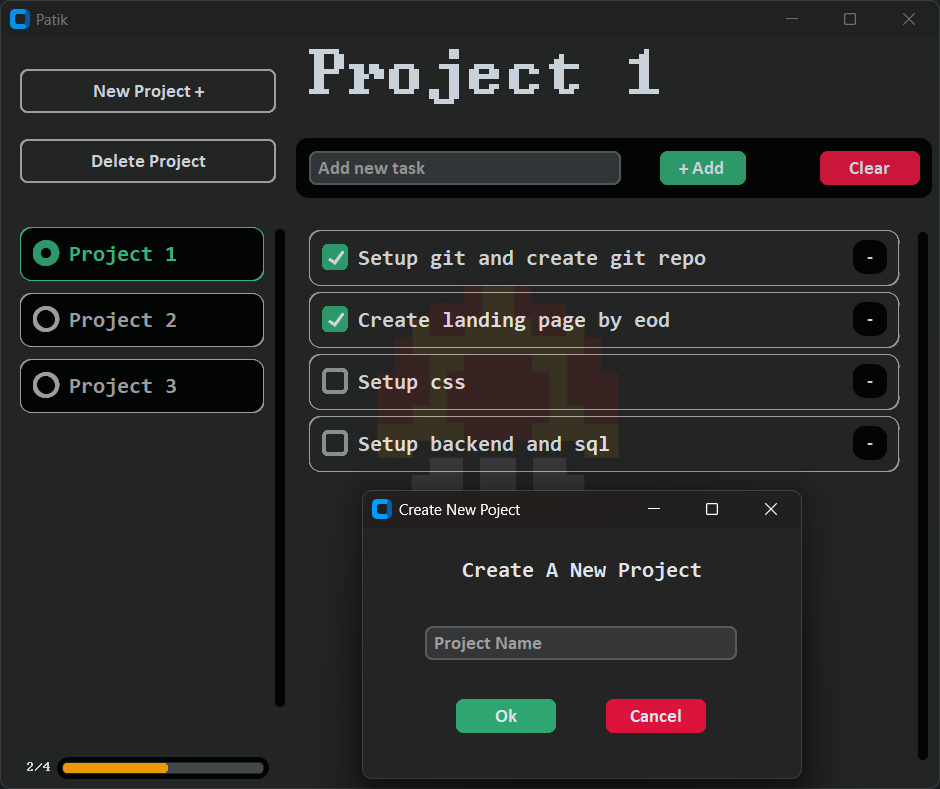
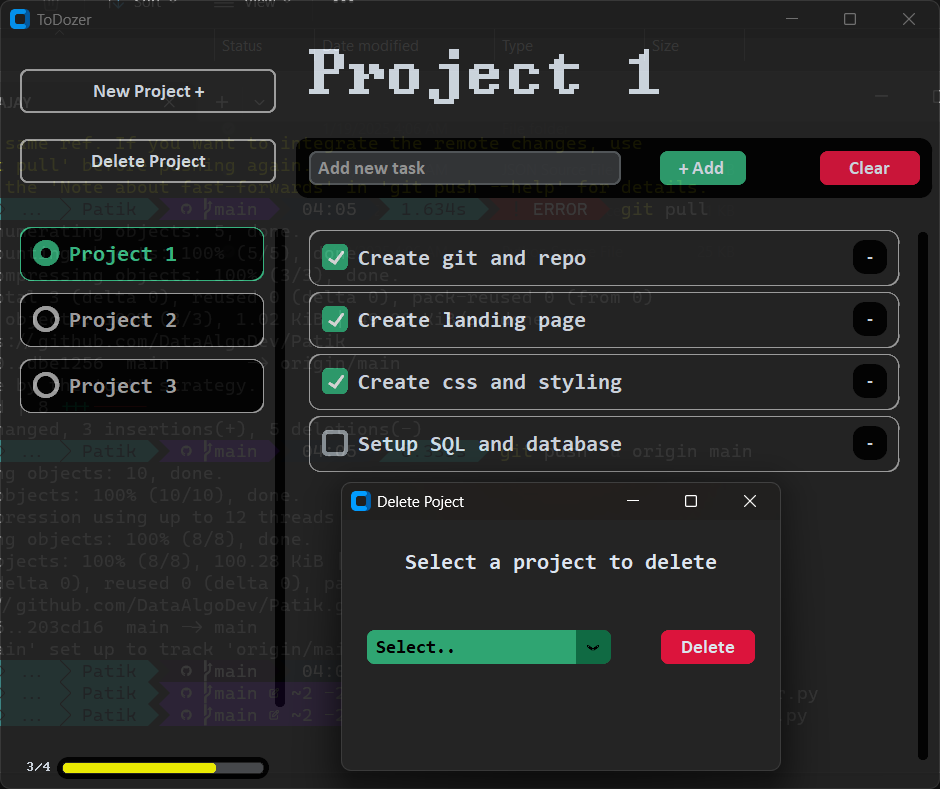
renamed to ToDozer

diff --git a/ToDozer.py b/ToDozer.py
@@ -18,7 +18,7 @@ class App(customtkinter.CTk):
         height = 600
         x = (screen_width // 2) - (width // 2)
         y = (screen_height // 2) - (height // 2)
-        self.title("Patik")
+        self.title("ToDozer")
         self.geometry(f"{width}x{height}+{x}+{y}")
         self.resizable(height=True, width=True)
 
